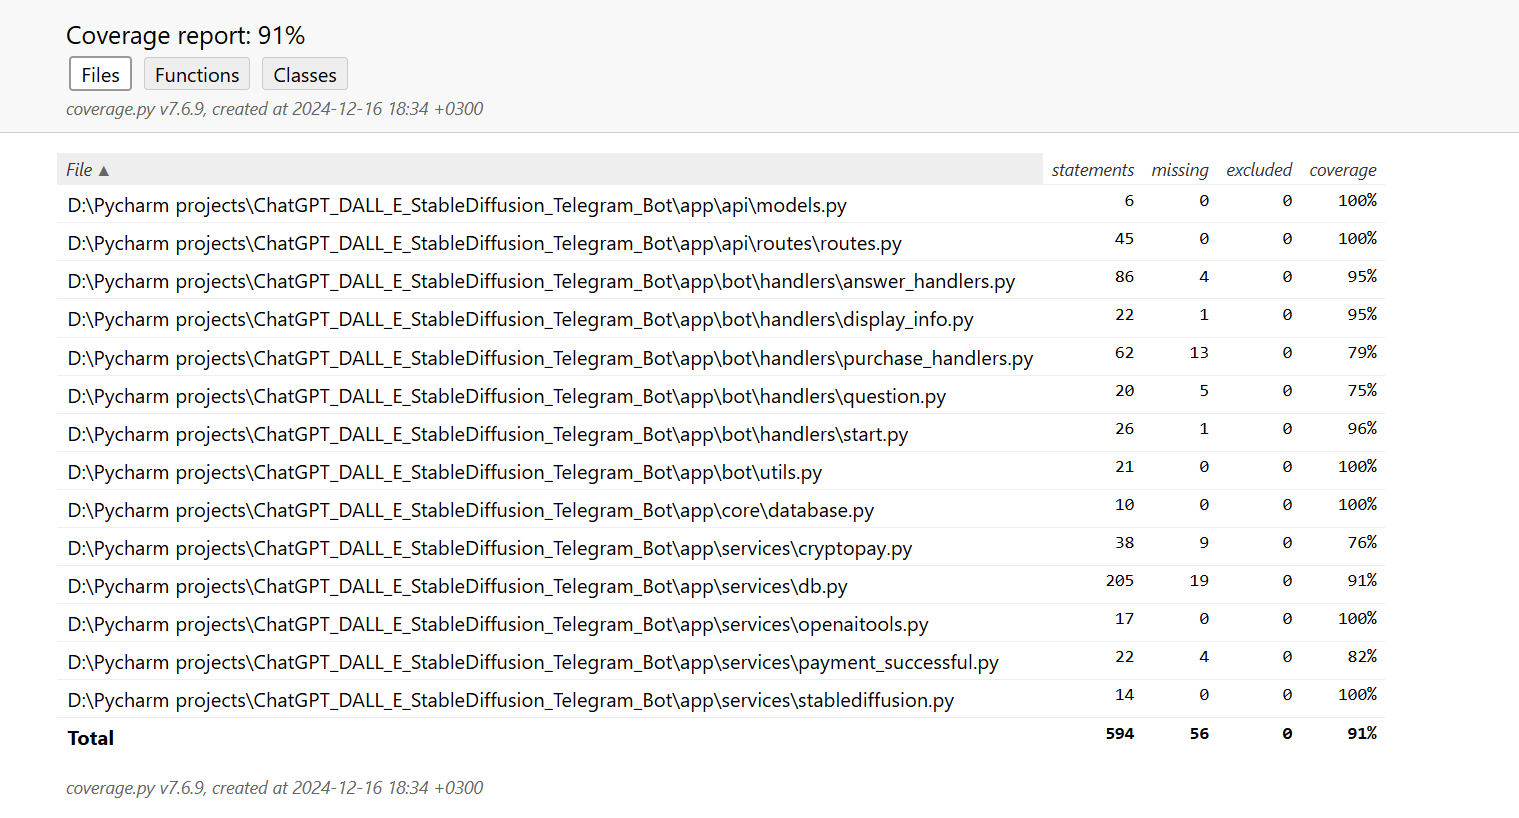
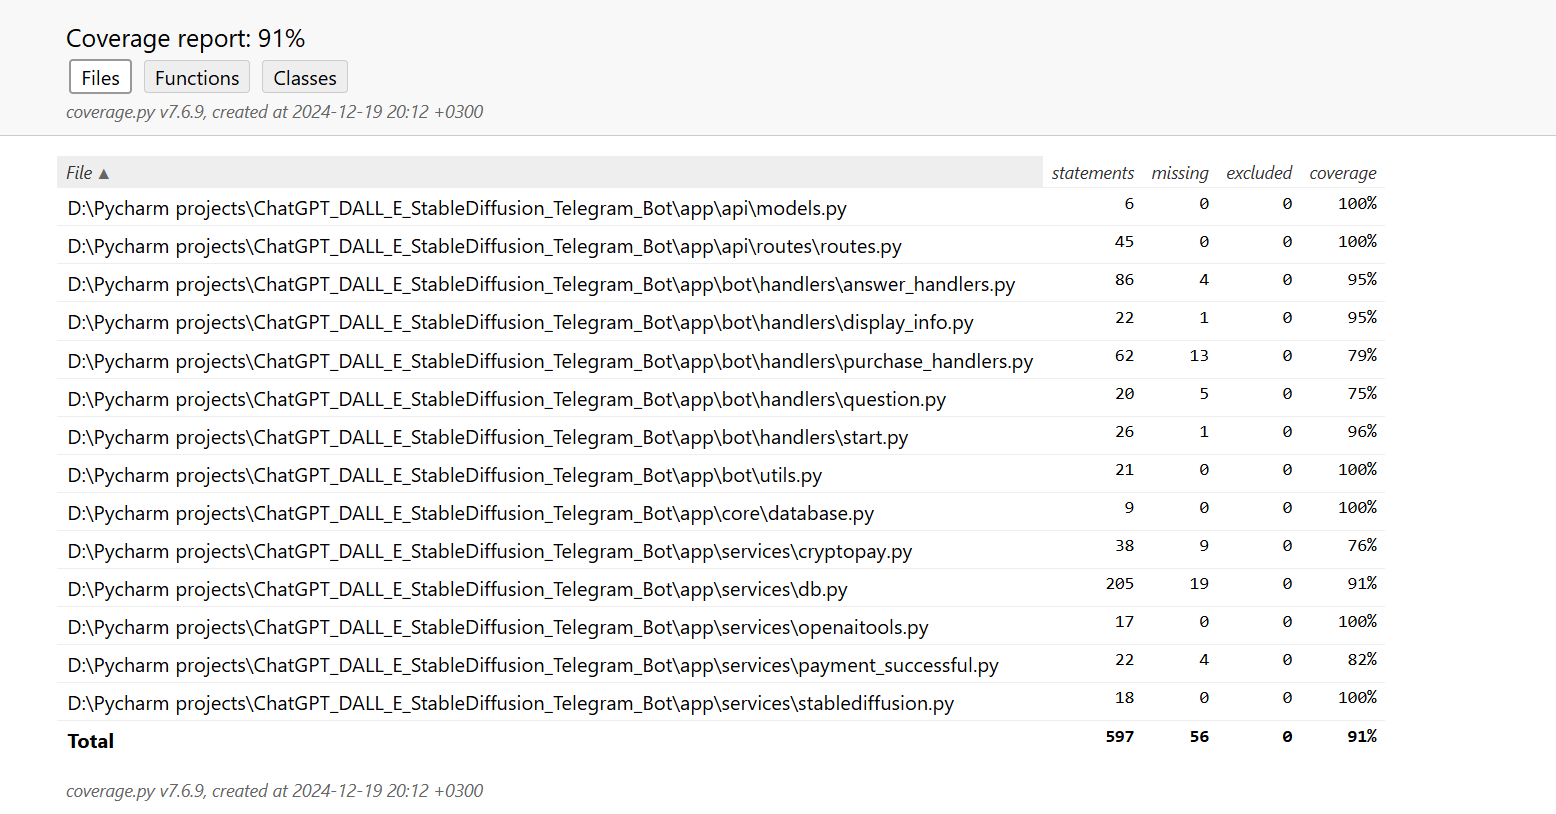
fix

diff --git a/tests/services/test_stablediffusion.py b/tests/services/test_stablediffusion.py
@@ -1,84 +1,110 @@
 import pytest
-from unittest.mock import MagicMock, patch
+from unittest.mock import MagicMock, AsyncMock, patch, call, ANY
 
 from app.services.stablediffusion import StableDiffusion
 
-@patch('requests.post')
+class AsyncContextManager:
+    def __init__(self):
+        self.post = MagicMock()
+        self.read = AsyncMock()
+
+    async def __aenter__(self):
+        return self
+    async def __aexit__(self, exc_type, exc, traceback):
+        pass
+
+@patch('app.services.stablediffusion.aiohttp')
 @pytest.mark.asyncio
-async def test_get_stable_success(mock_postrequest):
+async def test_get_stable_success(mock_aiohttp):
     stable = StableDiffusion('key')
 
-    mock_response = MagicMock()
-    mock_response.status_code = 200
-    mock_response.content = b"answer"
+    session = AsyncContextManager()
 
-    mock_postrequest.return_value = mock_response
+    response = AsyncContextManager()
+
+    session.post.return_value = response
+
+    mock_aiohttp.ClientSession.return_value = session
+
+    response.status = 200
+
+    response.read.return_value = b"answer"
+
+    mock_aiohttp.FormData = MagicMock()
 
     answer = await stable.get_stable('question')
 
-    mock_postrequest.assert_called_once_with(f"https://api.stability.ai/v2beta/stable-image/generate/sd3",
-        headers={
-            "authorization": f"Bearer key",
-            "accept": "image/*"
-        },
-        files={"none": ''},
-        data={
-            "prompt": "question",
-            "output_format": "jpeg",
-            "model": "sd3-large-turbo",
-        }
-    )
+    response.read.assert_awaited_once_with()
+
+    mock_aiohttp.FormData.assert_has_calls([call(),
+                                            call().add_field("prompt", 'question', content_type='multipart/form-data'),
+                                            call().add_field("output_format", "jpeg", content_type='multipart/form-data'),
+                                            call().add_field("model", "sd3-large-turbo", content_type='multipart/form-data')])
+
+    assert len(mock_aiohttp.FormData.mock_calls) == 4
+
+    session.post.assert_called_once_with('https://api.stability.ai/v2beta/stable-image/generate/sd3',
+                                        headers={
+                                            "authorization": f"Bearer key",
+                                            "accept": "image/*"
+                                        },
+                                        data=ANY)
 
     assert answer == b"answer"
 
-@patch('requests.post')
+@patch('app.services.stablediffusion.aiohttp')
 @pytest.mark.asyncio
-async def test_get_stable_response_error(mock_postrequest):
+async def test_get_stable_error(mock_aiohttp):
     stable = StableDiffusion('key')
 
-    mock_response = MagicMock()
-    mock_response.status_code = 500
-    mock_response.content = b"answer"
+    session = AsyncContextManager()
 
-    mock_postrequest.return_value = mock_response
+    response = AsyncContextManager()
+
+    session.post.return_value = response
+
+    mock_aiohttp.ClientSession.return_value = session
+
+    response.status = 500
+
+    response.read.return_value = b"answer"
+
+    mock_aiohttp.FormData = MagicMock()
 
     answer = await stable.get_stable('question')
 
-    mock_postrequest.assert_called_once_with(f"https://api.stability.ai/v2beta/stable-image/generate/sd3",
-        headers={
-            "authorization": f"Bearer key",
-            "accept": "image/*"
-        },
-        files={"none": ''},
-        data={
-            "prompt": "question",
-            "output_format": "jpeg",
-            "model": "sd3-large-turbo",
-        }
-    )
+    mock_aiohttp.FormData.assert_has_calls([call(),
+                                            call().add_field("prompt", 'question', content_type='multipart/form-data'),
+                                            call().add_field("output_format", "jpeg", content_type='multipart/form-data'),
+                                            call().add_field("model", "sd3-large-turbo", content_type='multipart/form-data')])
+
+    assert len(mock_aiohttp.FormData.mock_calls) == 4
+
+    session.post.assert_called_once_with('https://api.stability.ai/v2beta/stable-image/generate/sd3',
+                                        headers={
+                                            "authorization": f"Bearer key",
+                                            "accept": "image/*"
+                                        },
+                                        data=ANY)
 
     assert answer == None
 
-@patch('requests.post')
+@patch('app.services.stablediffusion.aiohttp')
 @pytest.mark.asyncio
-async def test_get_stable_error(mock_postrequest):
+async def test_get_stable_exception(mock_aiohttp):
     stable = StableDiffusion('key')
 
-    mock_postrequest.side_effect = Exception()
+    mock_aiohttp.ClientSession.side_effect = Exception()
+
+    mock_aiohttp.FormData = MagicMock()
 
     answer = await stable.get_stable('question')
 
-    mock_postrequest.assert_called_once_with(f"https://api.stability.ai/v2beta/stable-image/generate/sd3",
-        headers={
-            "authorization": f"Bearer key",
-            "accept": "image/*"
-        },
-        files={"none": ''},
-        data={
-            "prompt": "question",
-            "output_format": "jpeg",
-            "model": "sd3-large-turbo",
-        }
-    )
+    mock_aiohttp.FormData.assert_has_calls([call(),
+                                            call().add_field("prompt", 'question', content_type='multipart/form-data'),
+                                            call().add_field("output_format", "jpeg", content_type='multipart/form-data'),
+                                            call().add_field("model", "sd3-large-turbo", content_type='multipart/form-data')])
+
+    assert len(mock_aiohttp.FormData.mock_calls) == 4
 
     assert answer == None

diff --git a/app/services/stablediffusion.py b/app/services/stablediffusion.py
@@ -1,6 +1,4 @@
-import requests
-from functools import partial
-import asyncio
+import aiohttp
 
 class StableDiffusion:
     def __init__(self, key: str):
@@ -8,22 +6,22 @@ class StableDiffusion:
 
     async def get_stable(self, prompt: str):
         try:
-            response = await asyncio.get_running_loop().run_in_executor(None,
-                partial(requests.post,f"https://api.stability.ai/v2beta/stable-image/generate/sd3",
-                headers={
-                    "authorization": f"Bearer {self.key}",
-                    "accept": "image/*"
-                },
-                files={"none": ''},
-                data={
-                    "prompt": prompt,
-                    "output_format": "jpeg",
-                    "model": "sd3-large-turbo",
-                })
-            )
-            if response.status_code == 200:
-                return response.content
-            else:
-                return
+            form_data = aiohttp.FormData()
+            form_data.add_field("prompt", prompt, content_type='multipart/form-data')
+            form_data.add_field("output_format", "jpeg", content_type='multipart/form-data')
+            form_data.add_field("model", "sd3-large-turbo", content_type='multipart/form-data')
+
+            async with aiohttp.ClientSession() as session:
+                async with session.post('https://api.stability.ai/v2beta/stable-image/generate/sd3',
+                                        headers={
+                                            "authorization": f"Bearer {self.key}",
+                                            "accept": "image/*"
+                                        },
+                                        data=form_data) as response:
+                    if response.status == 200:
+                        photo = await response.read()
+                        return photo
+                    else:
+                        return
         except:
             return

diff --git a/app/core/database.py b/app/core/database.py
@@ -9,5 +9,4 @@ class DataBaseCore:
         await self.pool.wait()
 
     async def close_pool(self):
-        if self.pool:
-            await self.pool.close()
+        await self.pool.close()
